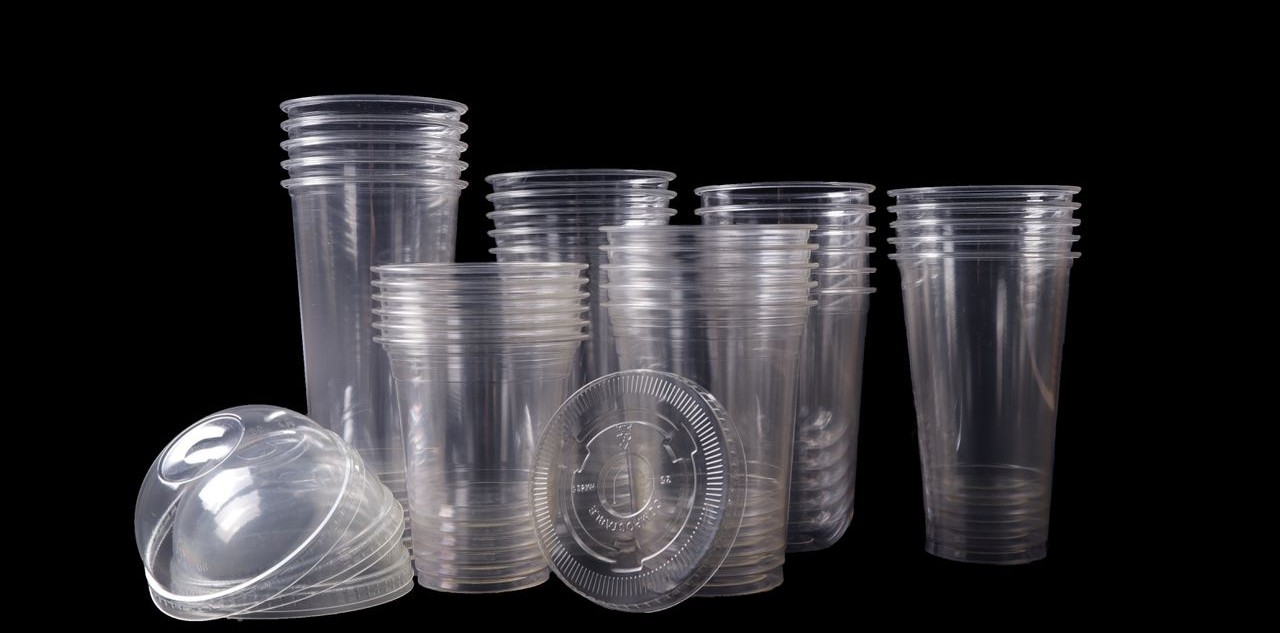
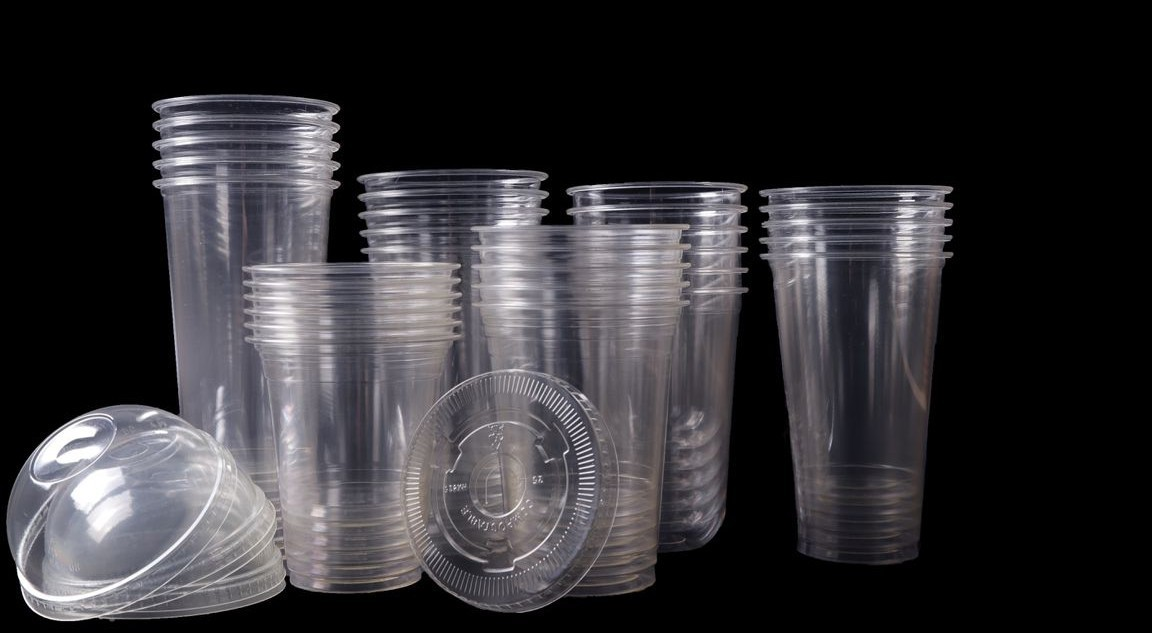
.

diff --git a/css/styles.css b/css/styles.css
@@ -178,7 +178,7 @@ header .logo img {
   /* background: linear-gradient(rgb(80, 168, 133, 0.2), rgb(80, 168, 133, 0.5)),
     url(../img/bg.png); */
   background: linear-gradient(rgb(80, 168, 133, 0.2), rgb(80, 168, 133, 0.5)),
-  url(../img/background-1.jpeg);
+  url(../img/background-1_big.jpeg);
   background-repeat: no-repeat;
   background-attachment: fixed;
   background-size: cover;
@@ -670,7 +670,7 @@ a > svg:hover {
   /* background: linear-gradient(rgb(80, 168, 133, 0.2), rgb(80, 168, 133, 0.5)),
     url(../img/nature.jpg); */
   background: linear-gradient(rgb(80, 168, 133, 0.2), rgb(80, 168, 133, 0.5)),
-  url(../img/Transparent\ clear\ cups.jpeg);
+  url(../img/Transparent\ clear\ cups_big.jpeg);
   background-size: cover;
   background-repeat: no-repeat;
   background-attachment: fixed;
